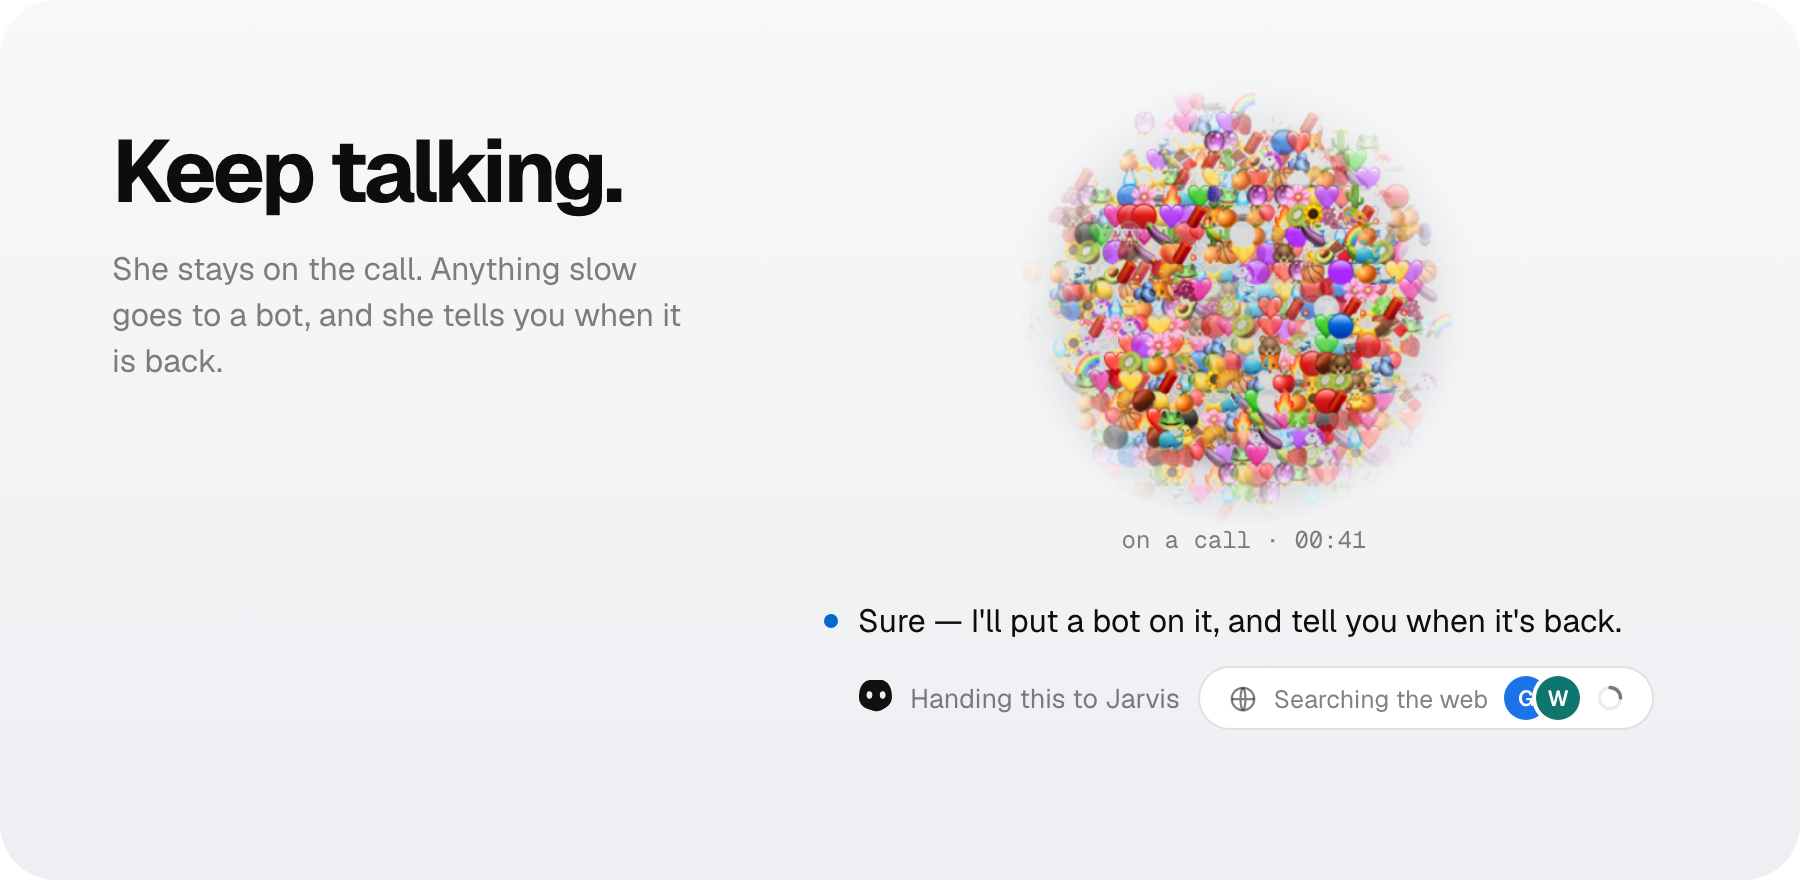
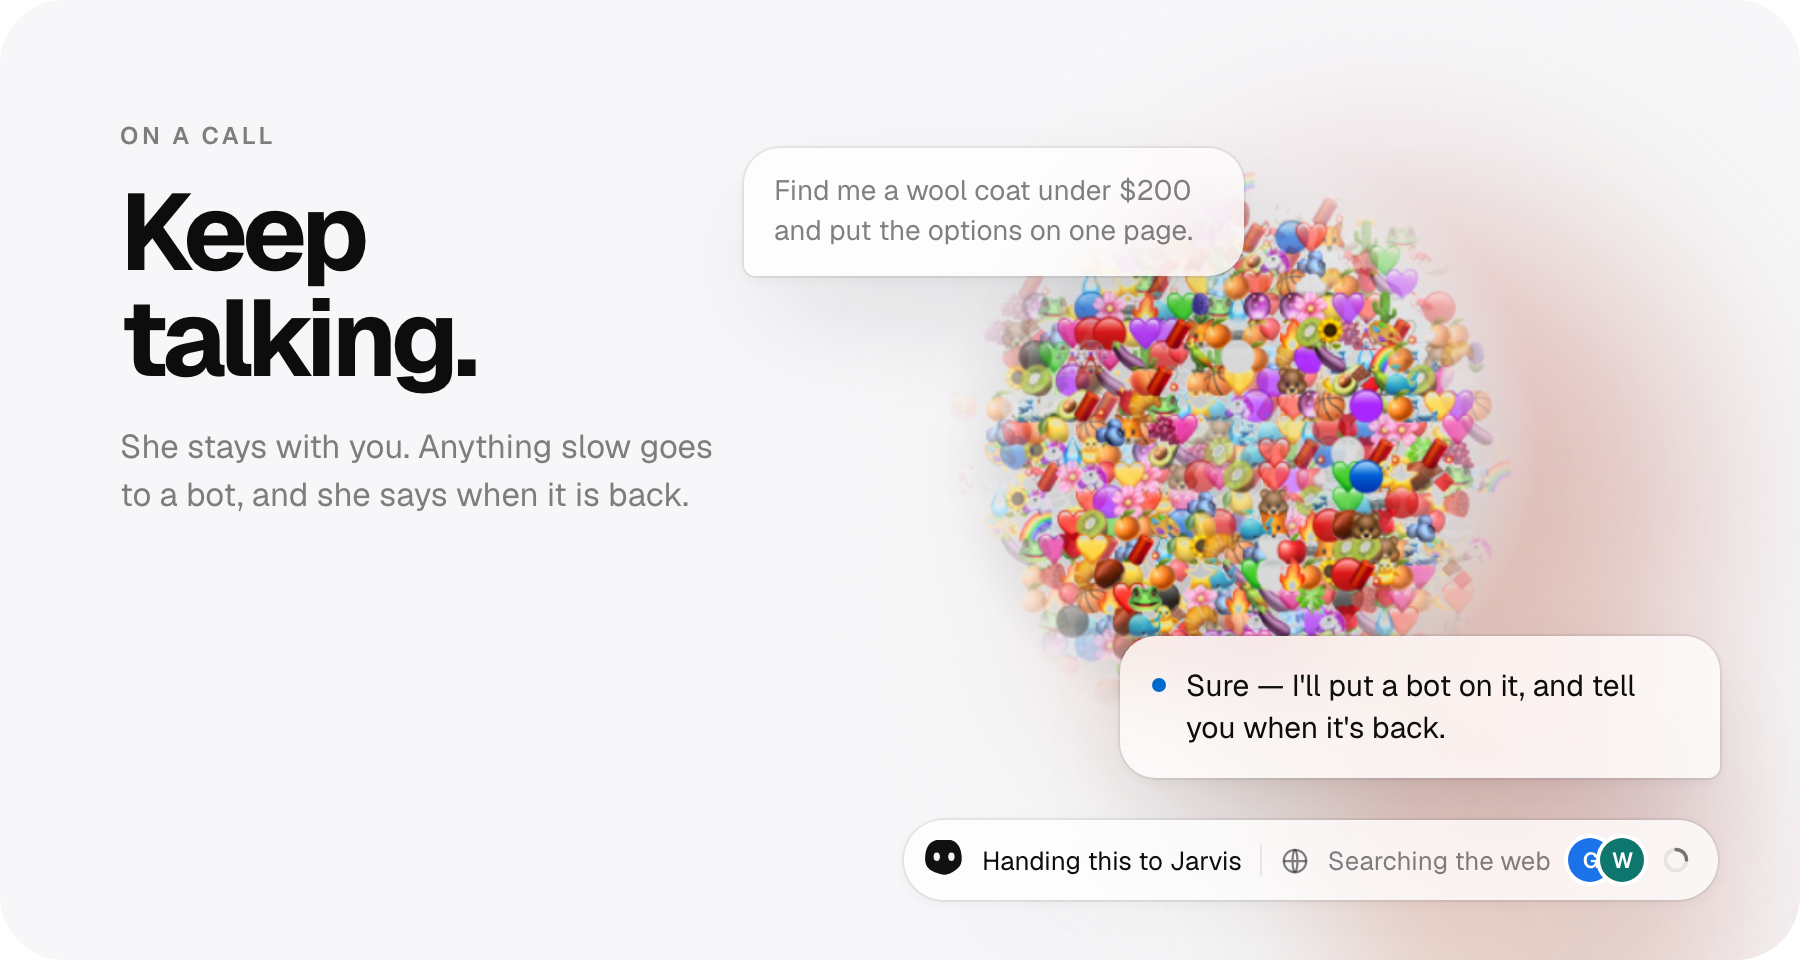
docs(readme): the section pictures get a light of their own
Each scene is lit by her own colours (her face, blurred large behind it), the
bots come in as characters beside the thread they work in, the finished work is
fanned out as the page, a chart and a deck from one job, and the four closing
cards each carry a tint of their own. Same files, same sizes, both themes drawn
in the app's colours at 2x; the alt text of the two pictures whose content
changed says what they now show.

diff --git a/README.ko.md b/README.ko.md
@@ -68,14 +68,14 @@ Node.js 22.18 이상과 OpenAI API 키 하나면 됩니다. 첫 화면에 키를
 
 <picture>
   <source media="(prefers-color-scheme: dark)" srcset="https://raw.githubusercontent.com/cgoinglove/thursday/main/docs/images/film-results-dark.png">
-  <img src="https://raw.githubusercontent.com/cgoinglove/thursday/main/docs/images/film-results-light.png" alt="봇이 만든 페이지와 옆에 저장된 파일들, 그리고 도착한 카드" width="880">
+  <img src="https://raw.githubusercontent.com/cgoinglove/thursday/main/docs/images/film-results-light.png" alt="봇이 만든 페이지와, 같은 일에서 나온 차트와 슬라이드, 그리고 저장된 파일들" width="880">
 </picture>
 
 ## 이런 것도 됩니다
 
 <picture>
   <source media="(prefers-color-scheme: dark)" srcset="https://raw.githubusercontent.com/cgoinglove/thursday/main/docs/images/film-more-dark.png">
-  <img src="https://raw.githubusercontent.com/cgoinglove/thursday/main/docs/images/film-more-light.png" alt="평일 아침 아홉 시 — 봇 하나와 일 하나와 시각 하나. 폰에서 — 텔레그램·디스코드·슬랙. 읽을 수 있는 메모리 — 열고 고치고 지울 수 있는 평범한 메모. 봇마다 고르는 모델" width="880">
+  <img src="https://raw.githubusercontent.com/cgoinglove/thursday/main/docs/images/film-more-light.png" alt="평일 아침 아홉 시 — 봇 하나와 일 하나와 시각 하나. 폰에서 — 텔레그램·디스코드·슬랙. 읽을 수 있는 메모리 — 열고 고치고 지울 수 있는 평범한 메모. 봇마다 고르는 모델 — OpenAI·Anthropic·Google·xAI·Vercel AI Gateway" width="880">
 </picture>
 
 ## 어떻게 돌아가나

diff --git a/README.md b/README.md
@@ -68,14 +68,14 @@ Pages, charts, videos, slides, docs and scripts, saved as files on your machine.
 
 <picture>
   <source media="(prefers-color-scheme: dark)" srcset="https://raw.githubusercontent.com/cgoinglove/thursday/main/docs/images/film-results-dark.png">
-  <img src="https://raw.githubusercontent.com/cgoinglove/thursday/main/docs/images/film-results-light.png" alt="A page a bot made, the files it saved beside it, and the card it landed as" width="880">
+  <img src="https://raw.githubusercontent.com/cgoinglove/thursday/main/docs/images/film-results-light.png" alt="A page a bot made, a chart and a deck from the same job, and the files they were saved as" width="880">
 </picture>
 
 ## And also
 
 <picture>
   <source media="(prefers-color-scheme: dark)" srcset="https://raw.githubusercontent.com/cgoinglove/thursday/main/docs/images/film-more-dark.png">
-  <img src="https://raw.githubusercontent.com/cgoinglove/thursday/main/docs/images/film-more-light.png" alt="Every weekday at nine: a bot, a job and a time. From your phone: Telegram, Discord or Slack. Memory you can read: plain notes you can open, edit or delete. Every bot, its own model" width="880">
+  <img src="https://raw.githubusercontent.com/cgoinglove/thursday/main/docs/images/film-more-light.png" alt="Every weekday at nine: a bot, a job and a time. From your phone: Telegram, Discord or Slack. Memory you can read: plain notes you can open, edit or delete. Every bot, its own model, from OpenAI, Anthropic, Google, xAI or the Vercel AI Gateway" width="880">
 </picture>
 
 ## How it works
